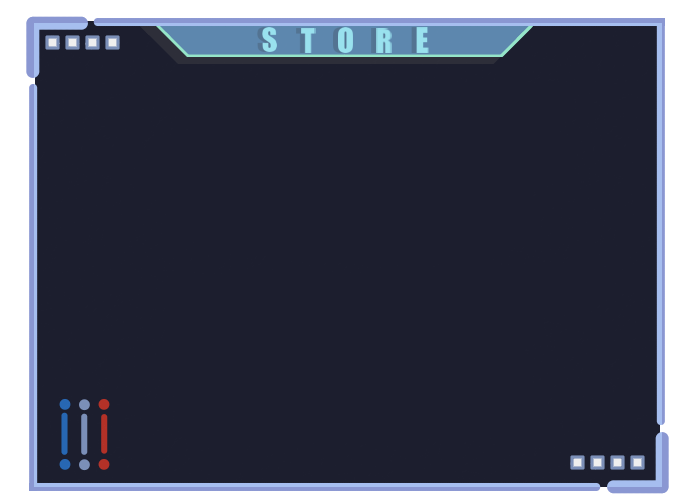
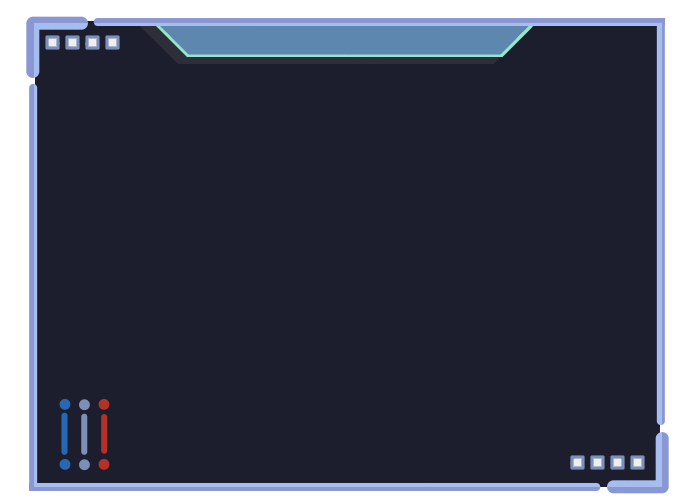
App Bundle Build
- App Version Fluctuations
- User Interface Resource Replacement
- Unity Remote (Faild)
- Control with the button switch door

Changed region(s): [[0.36, 0.03, 0.63, 0.12]]

diff --git a/Assets/Scrtpts/User_Interface/Ui_Size_Control.cs b/Assets/Scrtpts/User_Interface/Ui_Size_Control.cs
@@ -1,5 +1,4 @@
-using System;
-using UnityEngine;
+using UnityEngine;
 using UnityEngine.UI;
 
 public class Ui_Size_Control : MonoBehaviour
@@ -17,8 +16,6 @@ public class Ui_Size_Control : MonoBehaviour
 
     public static Ui_Size_Control instacne { get; private set; }
 
-    Action OnKey, CancleKey;
-
     private void Awake()
     {
         instacne = this;
@@ -32,7 +29,7 @@ public class Ui_Size_Control : MonoBehaviour
         Leaderboard_animator = Leaderboard_Button.GetComponent<Animator>();
 
         Store_animator = Store_Window.GetComponent<Animator>();
-        Setting_animator = Setting_Window.GetComponent<Animator>();
+        Setting_animator = Setting_Window.GetComponent<Animator>();   
     }
 
     private void Update()
@@ -47,20 +44,14 @@ public class Ui_Size_Control : MonoBehaviour
         }
     }
 
-    public void Open(Action Click_on, Action Click_Cancle)
+    public void Open()
     {
-        OnKey = Click_on;
-        CancleKey = Click_Cancle;
-
         Window_Function(true, false, false);
         Sound_Manager.instance.Button_Sound();
     }
 
-    public void Setting_Open(Action Click_on, Action Click_Cancle)
+    public void Setting_Open()
     {
-        OnKey = Click_on;
-        CancleKey = Click_Cancle;
-
         Window_Function(false, true, false);
         Sound_Manager.instance.Button_Sound();
     }
@@ -72,18 +63,12 @@ public class Ui_Size_Control : MonoBehaviour
         Setting_Window.SetActive(Setting);
     }
 
-    public void OnClick()
-    {
-        OnKey?.Invoke();
-
-        Close_Window();
-    }
-
     public void CancleClick()
     {
-        CancleKey?.Invoke();
+        Launch.interactable = true;
+        Store_animator.SetTrigger(Close);
+        Setting_animator.SetTrigger(Close);
 
-        Close_Window();
         Sound_Manager.instance.Cancle_Sound();
     }
 
@@ -96,12 +81,5 @@ public class Ui_Size_Control : MonoBehaviour
         Setting_Button_animator.SetTrigger(Close);
         Mission_Button_animator.SetTrigger(Close);
         Leaderboard_animator.SetTrigger(Close);
-    }
-
-    void Close_Window()
-    {
-        Launch.interactable = true;
-        Store_animator.SetTrigger(Close);
-        Setting_animator.SetTrigger(Close);
     }
 }

diff --git a/Assets/Scrtpts/Game/Singleton.cs b/Assets/Scrtpts/Game/Singleton.cs
@@ -14,13 +14,15 @@ public class Singleton : MonoBehaviour
     public AudioSource BGM_Sound;
     public SpriteRenderer Shuttle;
 
-    public int Language_Count, Sound_count, Switch_Count, Gear_Count, Shuttle_Switch_Count = 0;
+    public int Gear_Count = 2;
+    public int Shuttle_Switch_Count = 0;
     public int Count, Planet_count, Currency = 0;
+    public int Language_Count, Sound_count, Switch_Count;
+
+    public static int Connect = 0;
 
     public float Record, Gear_Speed;
-
     public static Singleton instance = null;
-    public static int Connect = 0;
 
     public TimeSpan Record_span; 
 
@@ -86,7 +88,7 @@ public class Singleton : MonoBehaviour
         Count = PlayerPrefs.GetInt("Count", 0);
         Record = PlayerPrefs.GetFloat("Record", 0f);
         Currency = PlayerPrefs.GetInt("Currency", 0);
-        Gear_Count = PlayerPrefs.GetInt("Gear_Count", 0);
+        Gear_Count = PlayerPrefs.GetInt("Gear_Count", 2);
         Sound_count = PlayerPrefs.GetInt("Sound_count", 0);
         Planet_count = PlayerPrefs.GetInt("Planet_count", 0);
         Switch_Count = PlayerPrefs.GetInt("Switch_count", 0);

diff --git a/Assets/Scrtpts/User_Interface/external_Switch.cs b/Assets/Scrtpts/User_Interface/external_Switch.cs
@@ -2,24 +2,23 @@
 
 public class external_Switch : MonoBehaviour
 {
-    public void Store_Button()
+    public void User_Interface_Open(string Name)
     {
-        Ui_Size_Control.instacne.Open(() => { }, () => { });
-    }
-
-    public void Setting_Button()
-    {
-        Ui_Size_Control.instacne.Setting_Open(() => { }, () => { });
-    }
-
-    public void Cancle_Button()
-    {
-        Ui_Size_Control.instacne.CancleClick();
-    }
-
-    public void Reduction()
-    {
-        Ui_Size_Control.instacne.Button_Reduction();
+        switch (Name)
+        {
+            case "Store" :
+                Ui_Size_Control.instacne.Open();
+                break;
+            case "Setting":
+                Ui_Size_Control.instacne.Setting_Open();
+                break;
+            case "Cancle":
+                Ui_Size_Control.instacne.CancleClick();
+                break;
+            case "Reduction":
+                Ui_Size_Control.instacne.Button_Reduction();
+                break;
+        }
     }
 
     public void Language()

diff --git a/Assets/Scrtpts/User_Interface/Item_Choice.cs b/Assets/Scrtpts/User_Interface/Item_Choice.cs
@@ -82,10 +82,7 @@ public class Item_Choice : MonoBehaviour
                     }
                 }
                 break;
-
-
         }
-
 
         switch (Singleton.instance.Planet_count)
         {
@@ -144,7 +141,8 @@ public class Item_Choice : MonoBehaviour
         }
 
         Singleton.instance.BGM_Sound.Play();
-        //Social.ReportProgress(GPGSIds.achievement, 100, null);
+
+        Social.ReportProgress(GPGSIds.achievement, 100, null);
     }
 
     private void Update()
